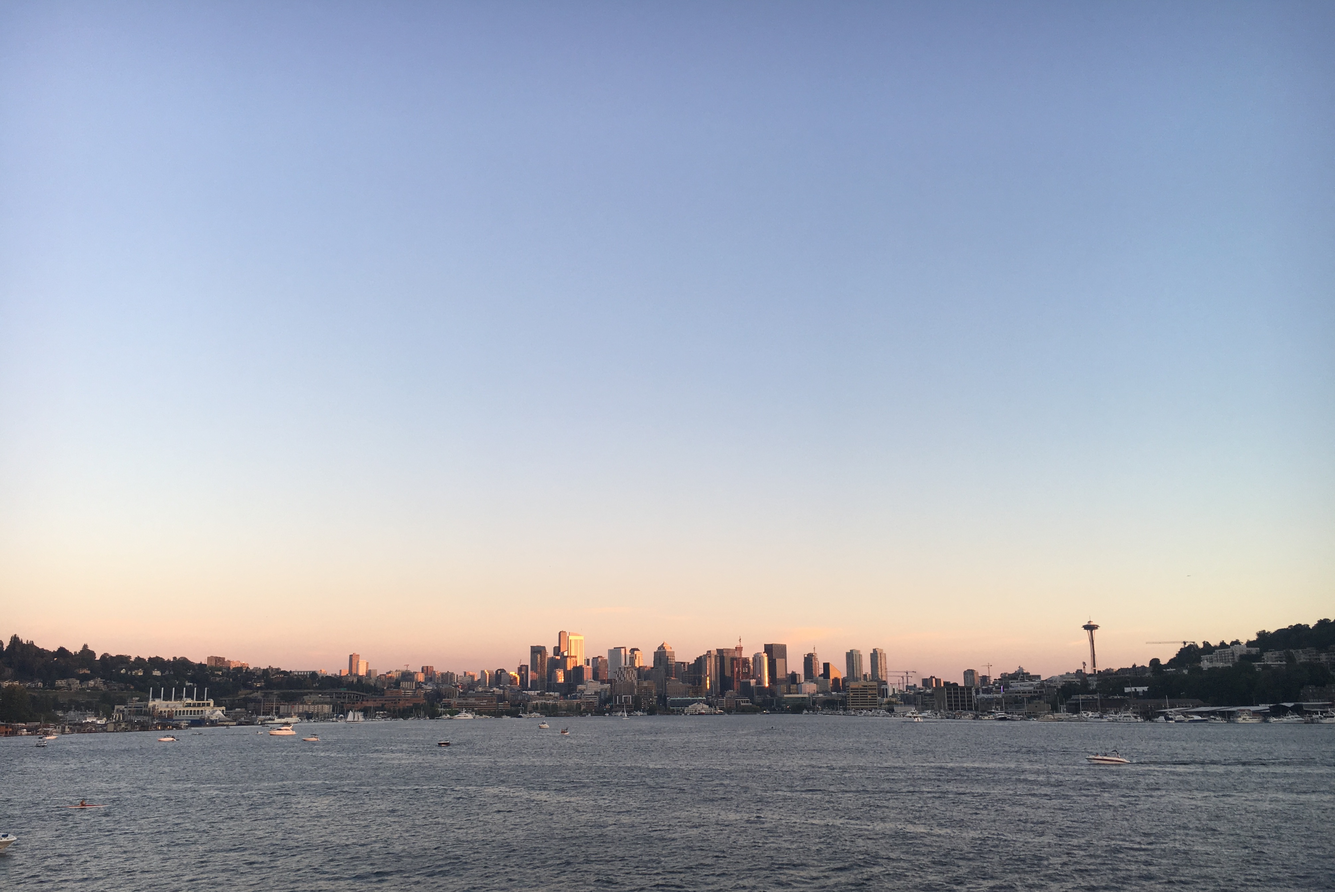
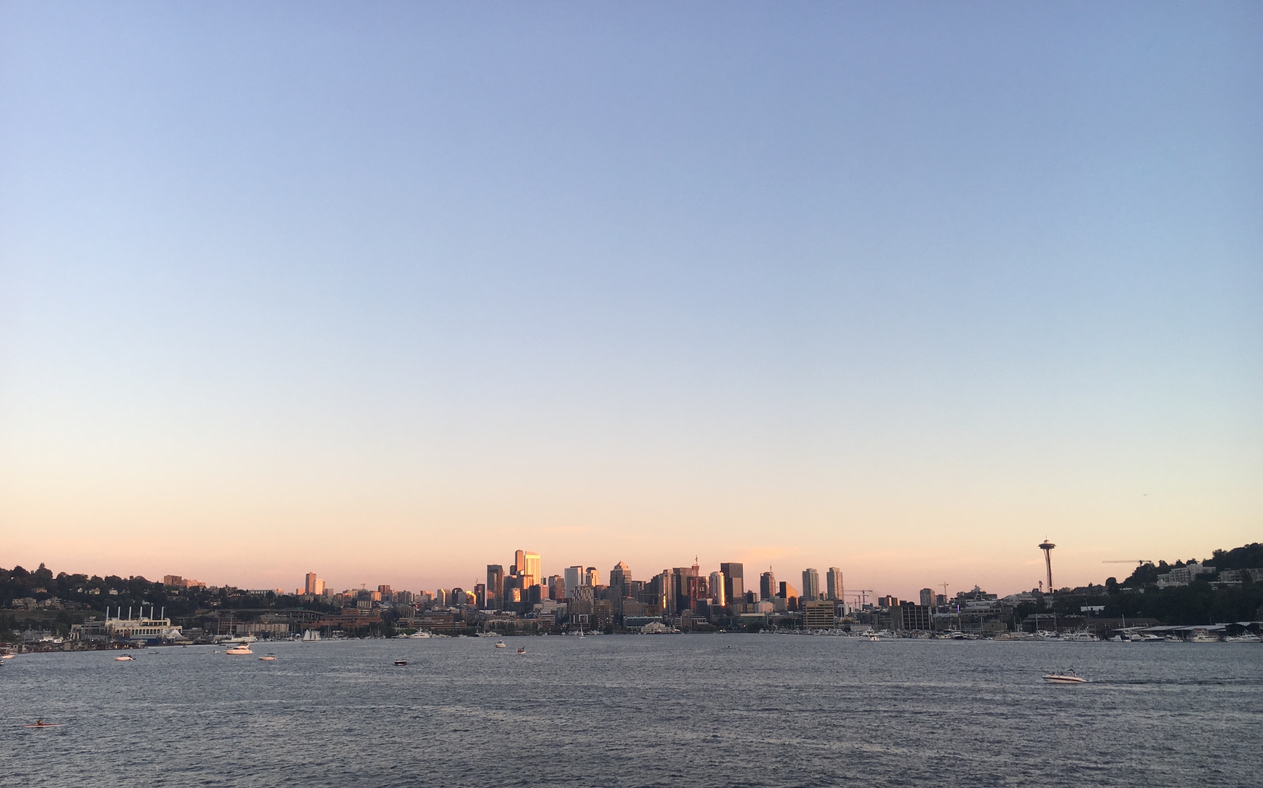
fixed

Changed region(s): [[0.0, 0.6861, 1.0, 1.0], [0.0, 0.0, 0.062, 0.0624]]

diff --git a/index.html b/index.html
@@ -57,9 +57,9 @@
       <div class="container text-center my-auto">
         <h1 class="mb-1">Rachel Paresa</h1>
         <h3 class="mb-5">
-          <em>A Free Bootstrap Theme by Start Bootstrap</em>
+          <em>Software Developer</em>
         </h3>
-        <a class="btn btn-primary btn-xl js-scroll-trigger" href="#about">Find Out More</a>
+        <a class="btn btn-primary btn-xl js-scroll-trigger" href="#about">About Me</a>
       </div>
       <div class="overlay"></div>
     </header>
@@ -69,10 +69,9 @@
       <div class="container text-center">
         <div class="row">
           <div class="col-lg-10 mx-auto">
-            <h2>Stylish Portfolio is the perfect theme for your next project!</h2>
-            <p class="lead mb-5">This theme features a flexible, UX friendly sidebar menu and stock photos from our friends at
-              <a href="https://unsplash.com/">Unsplash</a>!</p>
-            <a class="btn btn-dark btn-xl js-scroll-trigger" href="#services">What We Offer</a>
+            <h2>Biography</h2>
+            <p class="lead mb-5">Hi, I’m Rachel Paresa. Born and raised in Honolulu, Hawaii, but am now living in Seattle, Washington. As a current Senior at the University of Washington, I am studying Geography and Informatics. I’m interested in back end development and security engineering. In my free time I enjoy hiking, traveling, and trying out new things! </p>
+            <a class="btn btn-dark btn-xl js-scroll-trigger" href="#services">Projects</a>
           </div>
         </div>
       </div>
@@ -82,7 +81,7 @@
     <section class="content-section bg-primary text-white text-center" id="services">
       <div class="container">
         <div class="content-section-heading">
-          <h3 class="text-secondary mb-0">Services</h3>
+          <h3 class="text-secondary mb-0">Projects</h3>
           <h2 class="mb-5">What We Offer</h2>
         </div>
         <div class="row">

diff --git a/css/main.css b/css/main.css
@@ -93,8 +93,8 @@ h6 {
   height: auto;
   padding-top: 8rem;
   padding-bottom: 8rem;
-  background: -webkit-gradient(linear, left top, right top, from(rgba(255, 255, 255, 0.1)), to(rgba(255, 255, 255, 0.1))), url("../img/bg-masthead.jpg");
-  background: linear-gradient(90deg, rgba(255, 255, 255, 0.1) 0%, rgba(255, 255, 255, 0.1) 100%), url("../img/bg-masthead.jpg");
+  background: -webkit-gradient(linear, left top, right top, from(rgba(255, 255, 255, 0.1)), to(rgba(255, 255, 255, 0.1))), url("../img/seattle.jpg");
+  background: linear-gradient(90deg, rgba(255, 255, 255, 0.1) 0%, rgba(255, 255, 255, 0.1) 100%), url("../img/seattle.jpg");
   background-position: center center;
   background-repeat: no-repeat;
   background-size: cover;
